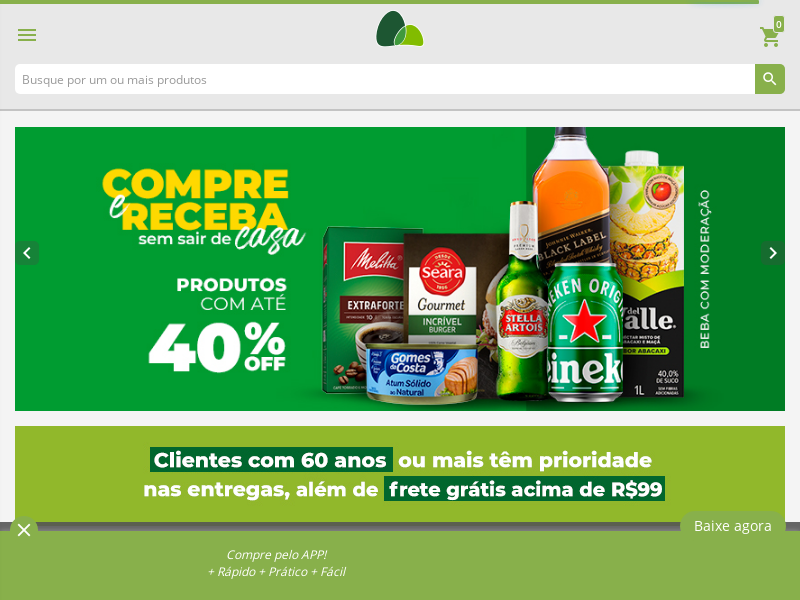
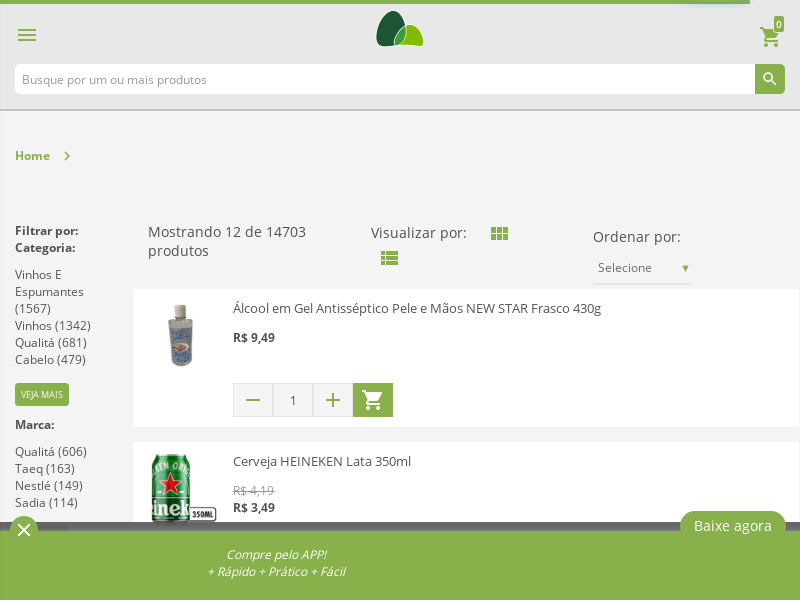
Navigating to Search page

diff --git a/app.js b/app.js
@@ -6,6 +6,11 @@ const App = async () => {
   const page = await browser.newPage();
   await page.goto('https://www.paodeacucar.com/');
 
+  // Go to Search page
+  const [ searchButton ] = await page.$x('//*[@id="light-header"]/div[5]/div[2]/div/div[2]/search/div/form/div/div/div/span/button');
+  await searchButton.click();
+  await page.waitFor(5000);
+
   // Testing with screenshot
   await page.screenshot({path: 'test.png'});
 
